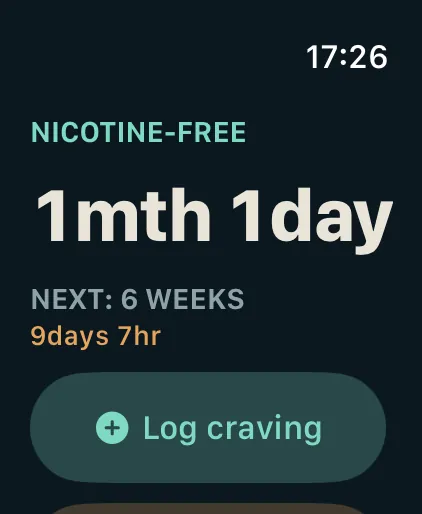
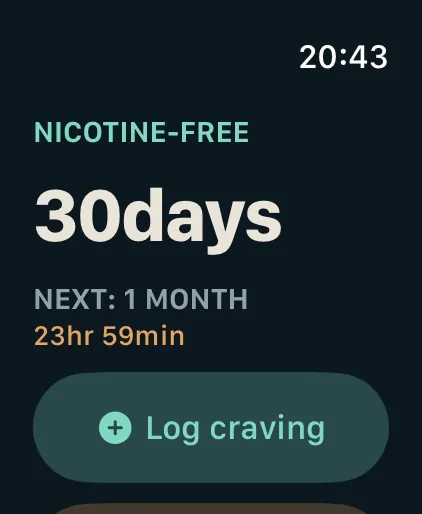
The audit round goes live: 85 fixes, current imagery, coming soon
The August 29 scorecard re-run (twelve fresh-eyes categories, adversarial
verify) and its same-day fix build, plus the two days after. Every claim
brought down to the build's truth; the ethos page gains the why chapter's
61 cited sources; privacy, 404 and the manual carry their full furniture.
Every iPhone shot re-taken from the current build (the hero and log show
the bar histogram, not the retired dial), og.jpg redrawn, webp beside
every jpg, alts rewritten from the pixels. The watch pair re-taken on the
current build after fixing a watchOS 27 bug the capture route found. And
the store badges tell the truth until launch: Coming soon to the App
Store, no dead links anywhere; the footer offers a launch-notice mailto
instead

diff --git a/index.html b/index.html
@@ -726,13 +726,14 @@ footer .row { display: flex; flex-wrap: wrap; gap: var(--s-l) var(--s-xl);
             <picture><source type="image/webp" srcset="shots/today.webp 519w, shots/today@2x.webp 1038w" sizes="(max-width: 34rem) 13.75rem, 16.5rem"><img src="shots/today.jpg" width="519" height="1130"
                  decoding="async" fetchpriority="high"
                  alt="The Today screen. Nicotine-free, 30 days 0 hours 0
-                      minutes, beside a Cravings by hour chart whose evening
-                      bars run amber. Under it, a line reading Weeks of
-                      afternoons like this one. It shows. Then Saved $360.00
-                      at a $4,380 a year pace, Next milestone 6 weeks, 71
-                      percent there, and the Recovery systems list with
-                      Carbon monoxide clearance, Heart rate and blood
-                      pressure and Taste and smell marked Recovered."></picture>
+                      minutes, Window soon 8 to 10 PM, beside a Cravings by
+                      hour chart whose evening bars run amber. Under it, a
+                      line reading Evenings used to ask the most. Notice how
+                      much quieter this one is. Then the evening check-in,
+                      How did today go, one tap, with No cravings and I had
+                      some buttons, and Saved $360.00 at a $4,380 a year
+                      pace beside Next milestone 6 weeks, in 11 days 23
+                      hours, 71 percent there."></picture>
           </div>
           <!-- The wrist, in the header, so the Watch is visible before anyone
                scrolls (Q21). It is the smaller device and it is drawn smaller. -->
@@ -740,8 +741,8 @@ footer .row { display: flex; flex-wrap: wrap; gap: var(--s-l) var(--s-xl);
             <picture><source srcset="shots/watch-home.webp" type="image/webp"><img src="shots/watch-home.jpg" width="422" height="514"
                  decoding="async"
                  alt="A quit on an Apple Watch: the word NICOTINE-FREE, a
-                      running count of one month one day, the next milestone at
-                      six weeks, and a Log craving button."></picture>
+                      running count of 30 days, the next milestone a day away,
+                      and a Log craving button."></picture>
           </div>
         </div>
         <p class="figure-label">Your clean time, and the two hours your own log
@@ -841,7 +842,7 @@ footer .row { display: flex; flex-wrap: wrap; gap: var(--s-l) var(--s-xl);
           system healing underneath.</p>
           <p>A counter that resets to zero has told you the last forty days
           did not happen. They happened. After a slip the button says what it
-          does: <b>Restart my clock, keep my history.</b></p>
+          does: <b>Restart my clock, keep my history</b></p>
           <p>A tin counts the money you stopped spending. A slip never
           empties it: what you are saving for should never pay for one hard
           night.</p>
@@ -866,7 +867,7 @@ footer .row { display: flex; flex-wrap: wrap; gap: var(--s-l) var(--s-xl);
                       to day ninety with a marker labelled you at day 30.
                       Below it, What it was doing and What's healing explain
                       the extra receptors and their reset, over the note Day
-                      30 of 90 and Evidence 8."></picture>
+                      30 of 90."></picture>
           </div>
           <p class="figure-label">One system opened to its road. A demonstration
           history, not a person's.</p>
@@ -947,11 +948,7 @@ footer .row { display: flex; flex-wrap: wrap; gap: var(--s-l) var(--s-xl);
                       What helps now, a paragraph telling you to clear out the
                       pack, the spare in the car, the lighters and the ashtrays
                       while you still feel fine, and to decide now what you
-                      will do when the first craving lands. A line beneath
-                      reads Evidence 1, 2, 21, over a Share this win link.
-                      Collapsed below it: one hour, circulation waking up; two
-                      hours, nicotine halved; four hours, three-quarters
-                      gone."></picture>
+                      will do when the first craving lands."></picture>
           </div>
         </div>
       </div>
@@ -1113,19 +1110,20 @@ footer .row { display: flex; flex-wrap: wrap; gap: var(--s-l) var(--s-xl);
                     basis filter rows. Cards reading Move your body, 10 min,
                     Quiet, marked On your list; Get into nature, 20 min,
                     Quiet; Savor one thing, 1 min, Quiet; Cook a real meal,
-                    45 min, Quiet; Take it cold, 3 min; and Take an awe walk,
-                    15 min."></picture>
+                    45 min, Quiet; Take it cold, 3 min, Quiet; and Take an
+                    awe walk, 15 min, Quiet."></picture>
+        </div>
+        <div class="phone reveal">
           <picture><source type="image/webp" srcset="shots/board.webp 519w, shots/board@2x.webp 1038w" sizes="(max-width: 34rem) 13.75rem, 16.5rem"><img src="shots/board.jpg" width="519" height="1130" loading="lazy"
                decoding="async"
-               alt="The Community board. Suggest a move, vote up what worked
-                    for you, and add any move to your list straight from its
-                    page. Four posts with vote counts: Cold water in the
-                    morning under Competence with 42, Ten pages before the
-                    phone under Meaning with 31, Walk-and-call a friend under
-                    Connection with 27, and One meal you cook from scratch
-                    under Reward, each a Practice with its minutes and nerve
-                    named."></picture>
+               alt="A demonstration of the Community board, drawn from the
+                    app's own seeded fixtures, not from live posts: the lede
+                    reads Suggest a move, vote up what worked for you, and
+                    add any move to your list straight from its page, over
+                    four sample posts with sample vote counts under the
+                    Competence, Meaning, Connection and Reward categories."></picture>
         </div>
+        <p class="figure-label">A demonstration board, seeded for this picture: the posts and the vote counts are the app's own fixtures, not people's.</p>
       </div>
       </div>
     </div>

diff --git a/manual.html b/manual.html
@@ -209,7 +209,7 @@ footer a { color: var(--dim); display: inline-block; padding-block: 0.2rem; }
   <p class="sectionlede">Quitting leaves a gap where the habit lived. Rebuild is the catalogue of what goes in its place, and the shelf that remembers what you have already built.</p>
   <div class="entry">
   <h3>The catalogue</h3>
-  <p>Research-backed moves, each with why it works, the steps, and the obstacles you will actually meet. Add what fits, set your own cadence, mark it done when it is.</p>
+  <p>Moves with their research named where it exists: each states why it works, the steps, and the obstacles you will actually meet, and the ones without citations are labelled Experiment, plainly. Add what fits, set your own cadence, mark it done when it is.</p>
   </div>
   <div class="entry">
   <h3>Your list and the footer</h3>

diff --git a/privacy.html b/privacy.html
@@ -97,7 +97,7 @@ footer a { color: var(--dim); }
 <main>
   <div class="wrap">
     <h1>Privacy policy</h1>
-    <p class="effective">Effective July 31, 2026. QuitForecast is an
+    <p class="effective">Effective July 31, 2026, last updated August 30, 2026. QuitForecast is an
     independently developed iOS app. For any question about your data, write to
     <a href="mailto:info@quitforecast.com">info@quitforecast.com</a> and a
     person will answer.</p>
@@ -182,7 +182,7 @@ footer a { color: var(--dim); }
     the thread deletes it sooner.</p>
 
     <h2>Children</h2>
-    <p>QuitForecast is intended for adults and is rated 18+.</p>
+    <p>QuitForecast is intended for adults.</p>
 
     <h2>Your rights</h2>
     <p>Because the app holds no accounts and stores your data on your own
